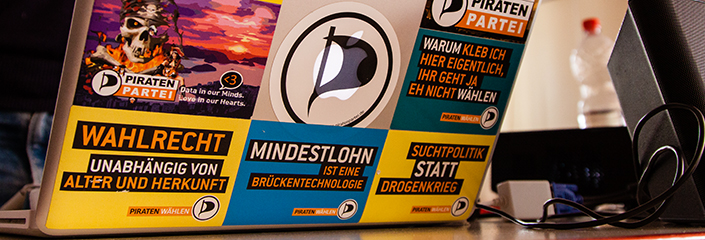
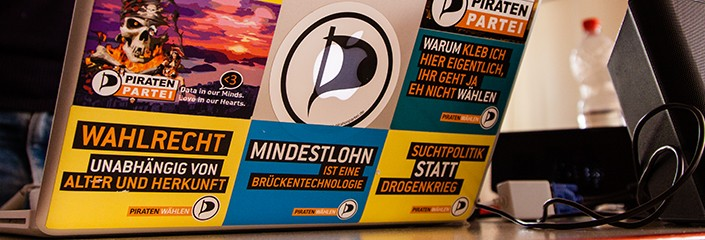
komprimierung

diff --git a/css/piratenkleider.css b/css/piratenkleider.css
@@ -4,7 +4,7 @@ Theme URI: http://piratenkleider.xwolf.de
 Description: Allgemeines Theme für Webauftritte der Piratenpartei
 Author: Wolfgang Wiese (xwolf)
 Author URI: http://www.xwolf.de 
-Version: 2.17.8
+Version: 2.17.13
 Tags: orange, two-columns, responsive, fluid-width
 License: CC-BY-SA 3.0 
 License URI: http://creativecommons.org/licenses/by-sa/3.0/de/deed.de
@@ -1746,7 +1746,7 @@ img.wp-smiley {
 }
 
  .gallery {
-	margin: 10px 10px 10px 50px;        
+	margin: 10px 0px 10px 0px;        
 }
  .gallery .gallery-item {
 	float: left;
